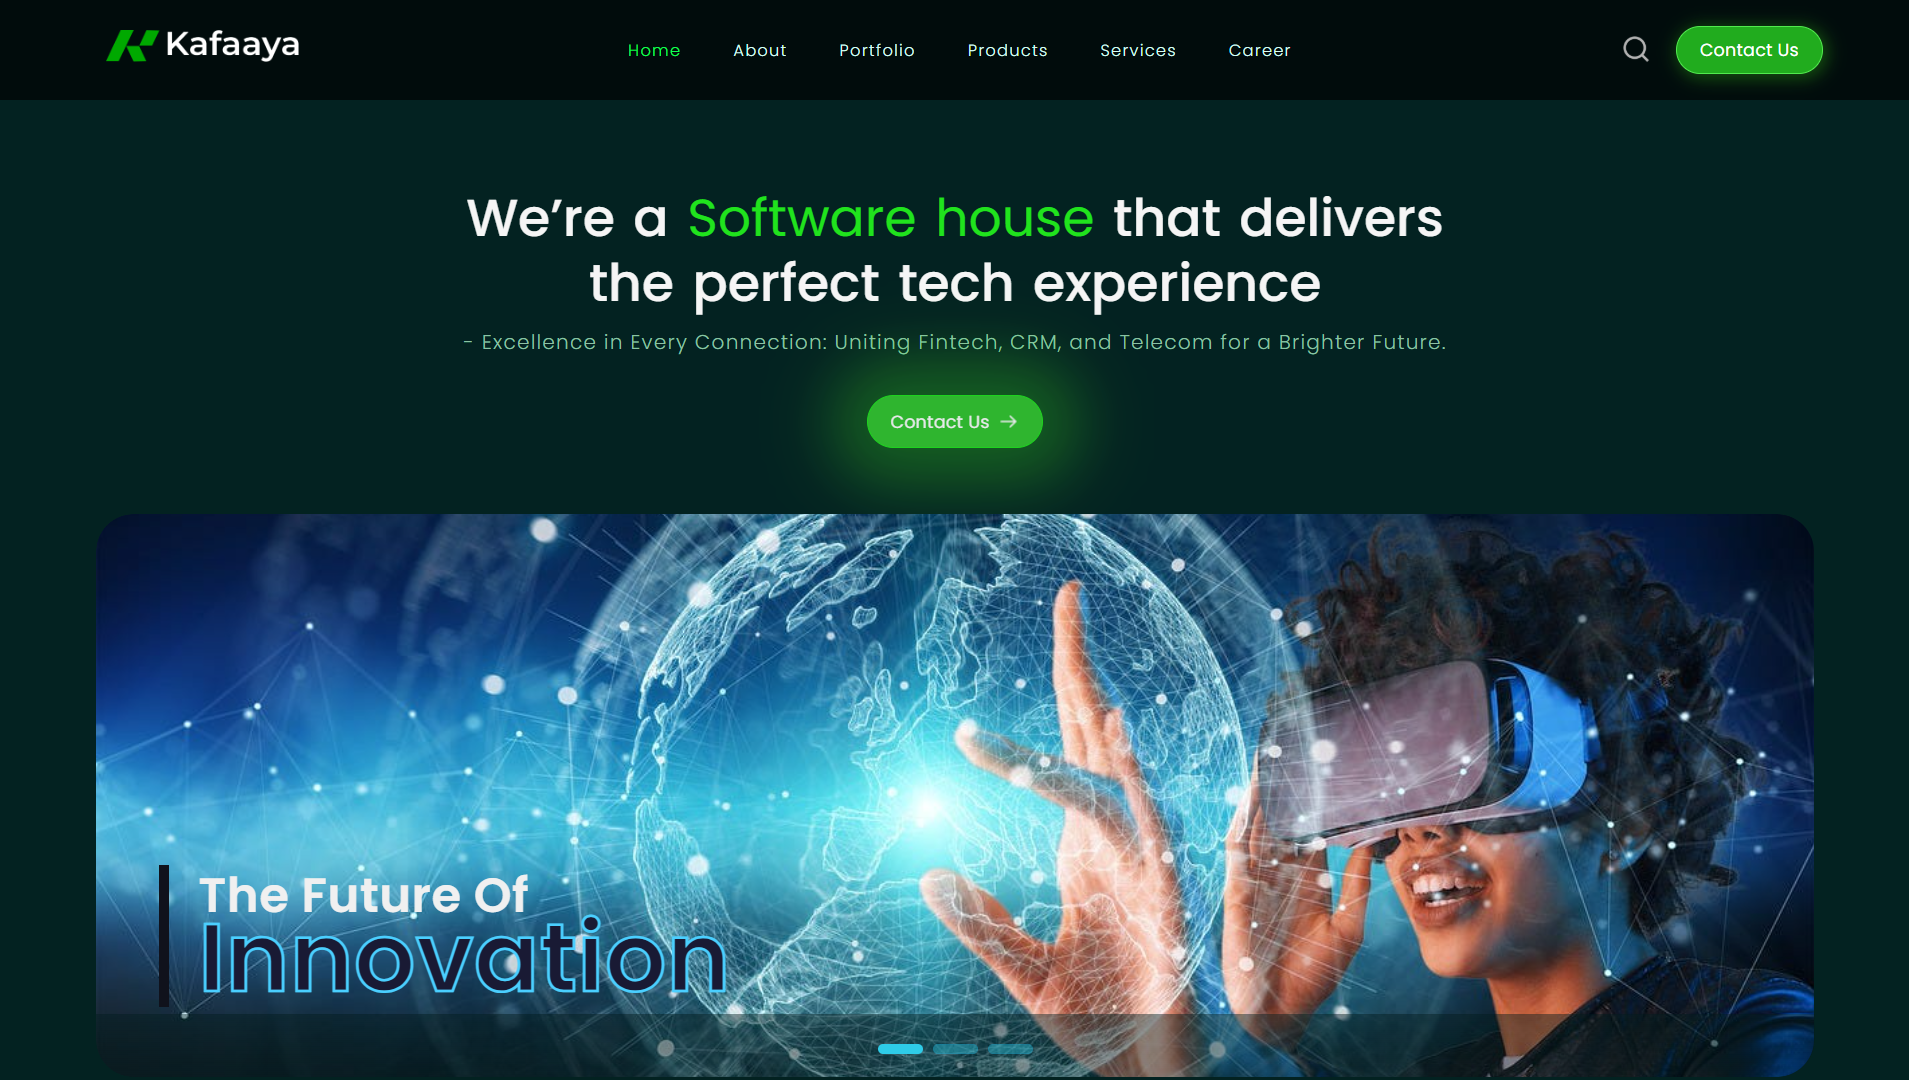
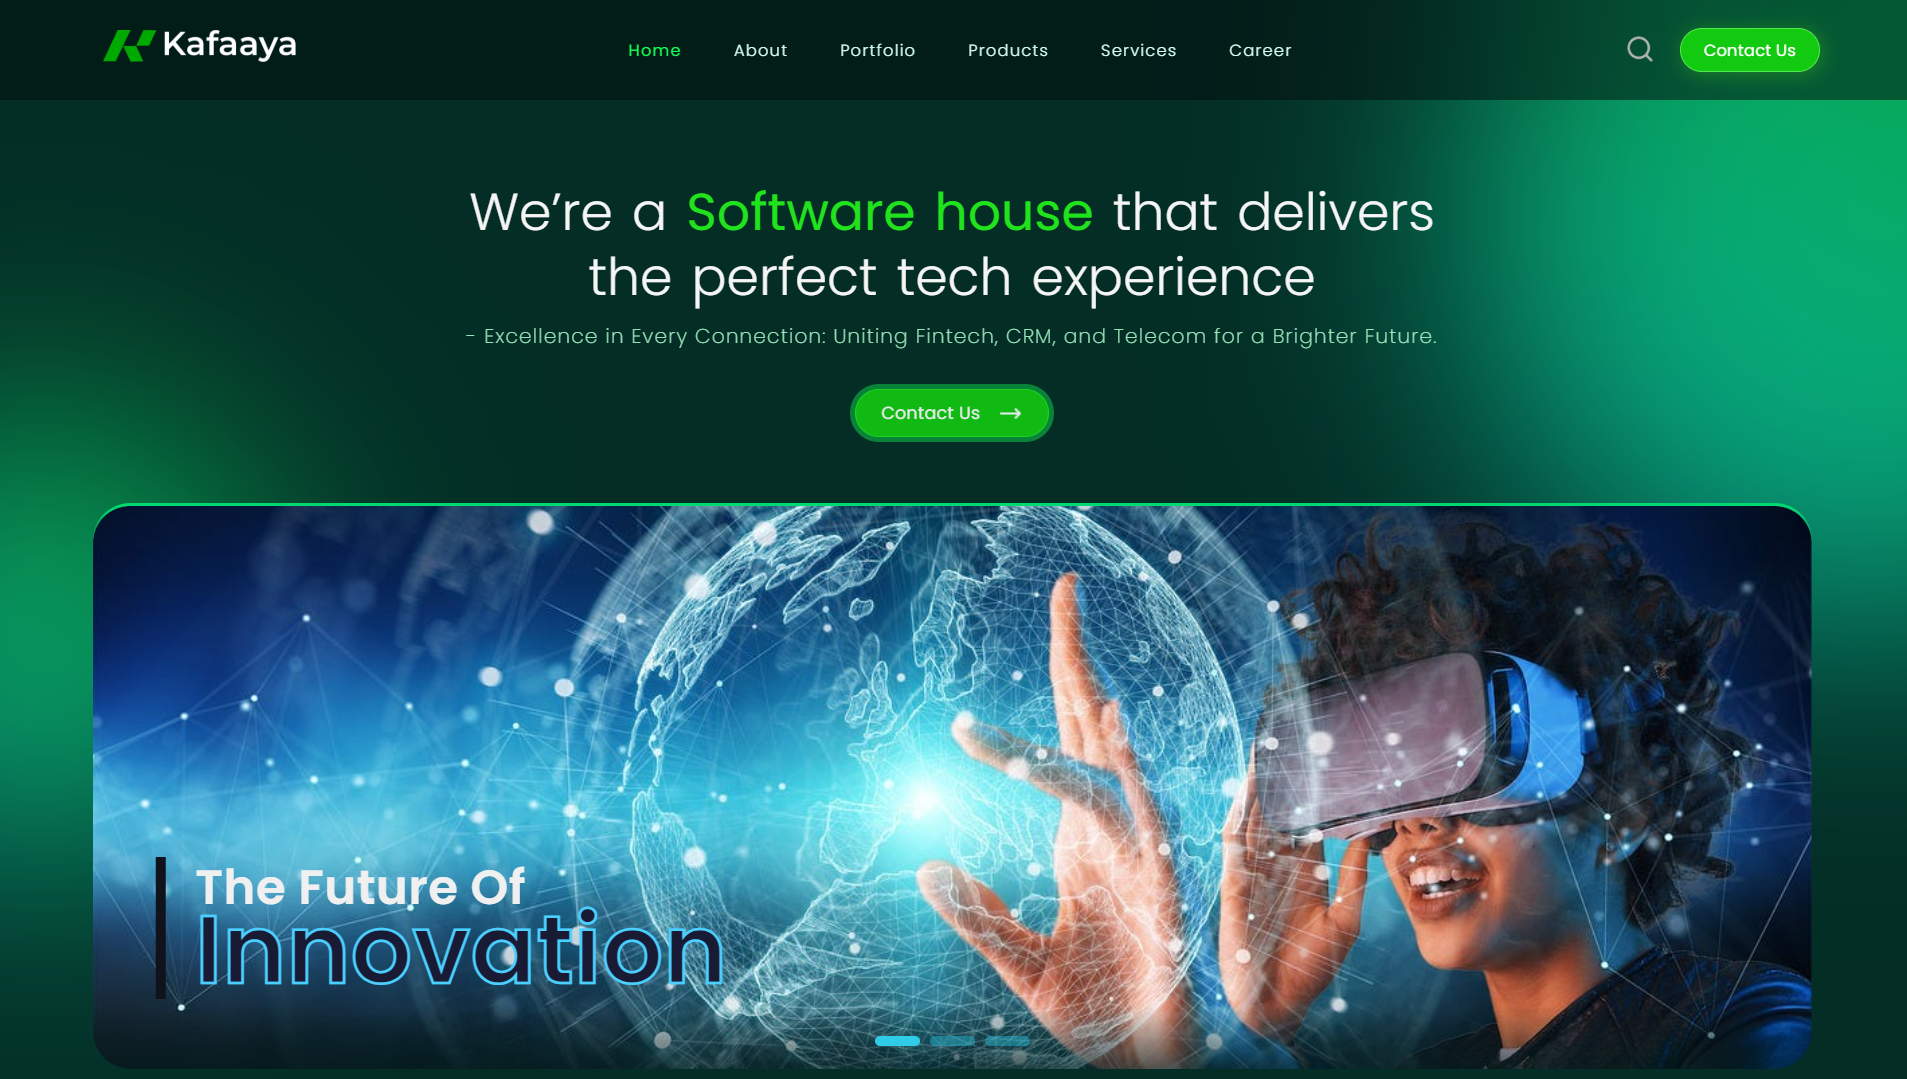
Files modified.

diff --git a/Css/style.css b/Css/style.css
@@ -44,9 +44,9 @@ h2 {
 
 p {
     font-size: 0.9rem;
-    font-weight: 300;
+    font-weight: 200;
     letter-spacing: 1px;
-    color: #8cc2a4;
+    color: #a0ecc1;
 }
 
 .w-92 {
@@ -92,13 +92,12 @@ header .navBar {
     align-items: center;
     width: 100%;
     height: 80px;
-    background-color: rgba(1, 12, 12, 0.5);
+    background-color: rgba(1, 12, 12);
     padding: 0px 70px;
     overflow: hidden;
     user-select: none;
     transition: 0.3s ease;
     z-index: 100;
-    backdrop-filter: blur(40px);
 }
 
 .navBar.sticky{
@@ -196,10 +195,10 @@ header .navBar {
 .aesthetic-element.left{
     position: fixed;
     left: 0;
-    top: 350px;
+    top: 330px;
     width: 360px;
     height: 360px;
-    opacity: 0.7;
+    opacity: 0.6;
     transform: translateX(-40%);
 }
 .aesthetic-element.right{
@@ -208,8 +207,17 @@ header .navBar {
     top: -160px;
     width: 660px;
     height: 660px;
-    opacity: 0.7;
-    transform: translateX(40%);
+    opacity: 0.6;
+    transform: translateX(46%);
+}
+.aesthetic-element.top{
+    position: fixed;
+    left: 50%;
+    top: -260px;
+    width: 700px;
+    height: 500px;
+    opacity: 0.5;
+    transform: translateX(-50%);
 }
 
 header .main-heading {
@@ -258,7 +266,7 @@ header .main-heading .buttons button {
     opacity: 0.9;
     border-radius: 30px;
     border: 1.5px groove #21e61e;
-    box-shadow: 0px 0px 1px 4px rgba(13, 235, 79, 0.5);
+    box-shadow: 0px 0px 0px 4px rgba(13, 235, 79, 0.5);
     cursor: pointer;
     transition: 0.3s ease;
 }
@@ -1941,7 +1949,7 @@ section.projects .project-card-wrapper .project-card{
     font-size: 17px;
     font-weight: 430px;
     word-spacing: 1px;
-    color: rgb(17, 97, 74);
+    color: rgb(150, 229, 207);
     padding: 4px 0;
 }
 

diff --git a/careers.html b/careers.html
@@ -61,6 +61,9 @@
 
   </header>
 
+    <div class="aesthetic-element top"></div>
+
+
   <!-- main section starts -->
   <main class="main-container">
     <section class="career-container w-92">

diff --git a/services.html b/services.html
@@ -61,6 +61,9 @@
 
   </header>
 
+        <div class="aesthetic-element top"></div>
+
+
   <!-- main section starts -->
   <main class="main-container">
     <section class="services section1">

diff --git a/kafaaya-policy.html b/kafaaya-policy.html
@@ -54,6 +54,9 @@
 
   </header>
 
+        <div class="aesthetic-element top"></div>
+
+
   <!-- main section starts -->
   <main class="main-container">
     <section class="policy-container">

diff --git a/about.html b/about.html
@@ -61,6 +61,9 @@
 
   </header>
 
+        <div class="aesthetic-element top"></div>
+
+
   <!-- main section starts -->
   <main class="main-container">
 

diff --git a/portfolio.html b/portfolio.html
@@ -61,6 +61,9 @@
 
   </header>
 
+        <div class="aesthetic-element top"></div>
+
+
   <!-- main section starts -->
   <main class="main-container">
 

diff --git a/products.html b/products.html
@@ -54,6 +54,9 @@
 
   </header>
 
+        <div class="aesthetic-element top"></div>
+
+
   <!-- main section starts -->
   <main class="main-container">
 
